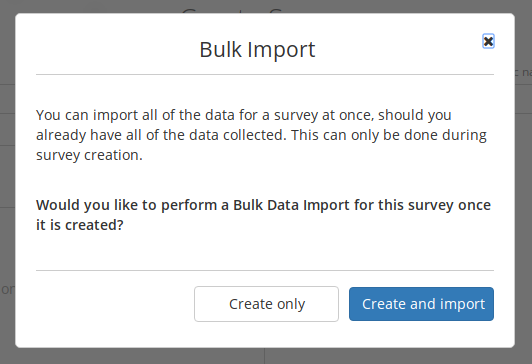
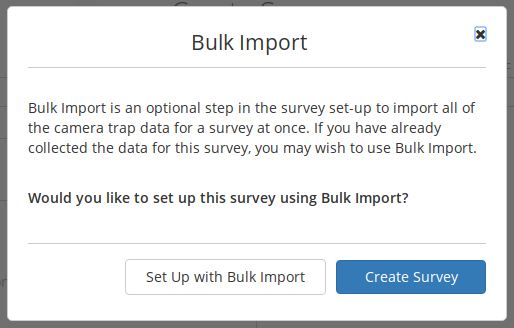
Update documentation.

diff --git a/doc/library.rst b/doc/library.rst
@@ -71,16 +71,18 @@ Identifying photos
 Identification in Camelot is the process of indicating which species are
 present in a photo. When you're ready to identify the selected photos,
 the mode for submitting details can be accessed via the "Identify
-Selected" button in the top right hand corner of the library. To switch
-back to searching, just press the Search button in the same location.
+Selected" button in the bottom left hand corner of the library.
+
+.. figure:: screenshot/library-identify-selected.png
+   :alt: Identify selected button.
 
 To submit an identification, set the species from the drop down, adjust
 the quantity if necessary, specify other identifiable details from the
-appropriate drop down and click "Submit". The identification bar will
+appropriate drop down and click "Submit". The identification panel will
 disappear and the photo will automatically be marked as "Processed".
 
 .. figure:: screenshot/library-identify.png
-   :alt: 
+   :alt: Floating species identification panel on the LHS.
 
 Sometimes you'll come across a species you didn't expect to see in a
 survey, and haven't encountered before. You can add this right away by
@@ -99,8 +101,6 @@ currently selected.
 
 Removing photos
 ~~~~~~~~~~~~~~~
-
-**New in Camelot 1.1.0**
 
 The currently viewed photo, if no longer required, can be removed via
 the Delete button located at the bottom of the Details sidebar.

diff --git a/doc/survey.rst b/doc/survey.rst
@@ -14,15 +14,19 @@ name.
 
 Once ready, click "Create Survey".
 
-**New in Camelot 1.1.0** At this stage you will be prompted asking
-whether you already have the data available for the survey to do a Bulk
-Import. If you have already collected all of the media for this survey,
-you may wish to select "Create and import". Refer to `Bulk
-Import <#bulk-import>`__ for more information.
+At this stage you will be prompted asking whether you already have the data
+available for the survey to do a Bulk Import. If you have already collected
+all of the media for this survey, you may wish to select "Set Up with Bulk
+Import".
+
+If unsure, you should choose "Create Survey" at this prompt. Should you choose
+"Set Up with Bulk Import", the survey will require the initial setup of the
+survey to be completed via Camelot's Bulk Import capabilities.  Refer to `Bulk
+Import <#bulk-import>`__ for more information on Bulk Import.
 
 .. figure:: screenshot/survey-bulk-import-prompt.png
-   :alt: 
+   :alt: Bulk Import prompt
 
-The ordering of sections in this guide will assume you choose "Create
-only" here, and will add data for your survey and organisation
+The ordering of sections in this guide will assume you choose "Create Survey"
+here, and that you will add data for your survey and organisation
 incrementally.

diff --git a/doc/settings.rst b/doc/settings.rst
@@ -8,15 +8,14 @@ options:
 .. figure:: screenshot/settings.png
    :alt: 
 
--  **Sighting Independence Threshold**: Camelot performs sighting
+- **Sighting Independence Threshold**: Camelot performs sighting
    independence checks on some reports. This setting controls the
    duration within which photos of the same species (and, if known, the
    same sex and life-stage) are considered dependent in those reports.
    Default is 30 minutes.
--  **Species name style**: *New in Camelot 1.1.0* whether species
-   scientific or common names should be shown by default. Default is
-   scientific names.
--  **Send anonymous usage data**: Enabled this option will provide data
+- **Species name style**: Whether species scientific or common names should be
+   shown by default. Default is scientific names.
+- **Send anonymous usage data**: Enabled this option will provide data
    about how you use Camelot back to the Camelot Project. This data is
    anonymous and is used only for the purpose of improving Camelot. It
    is disabled by default, though if you have the consent of others

diff --git a/CHANGELOG.md b/CHANGELOG.md
@@ -7,9 +7,11 @@
 * Add ability to delete all selected media in the library.
 * Add ability to delete all sightings across selected media in the library.
 * Restructure Camelot's `Media` data directory, in order to support large datasets on FAT32.
+* Relocate library identification to a floating panel.
 
 #### Fixes
 * Fix an error in template generation for bulk import where `:root-path` is unset in `config.clj`.
+* Fix a bug which would cause date selection popups to hide every 5 seconds when configuring reports.
 
 ### 1.1.1 (2017-02-08)
 #### Fixes

diff --git a/doc/bulkimport.rst b/doc/bulkimport.rst
@@ -1,8 +1,6 @@
 Bulk Import
 -----------
 
-**New in Camelot 1.1.0**
-
 A Bulk Import in Camelot provides a means to import a survey's worth of
 data at once. You're not left to your own devices when it comes to
 preparing the data for import though, nor is it (entirely) on your
